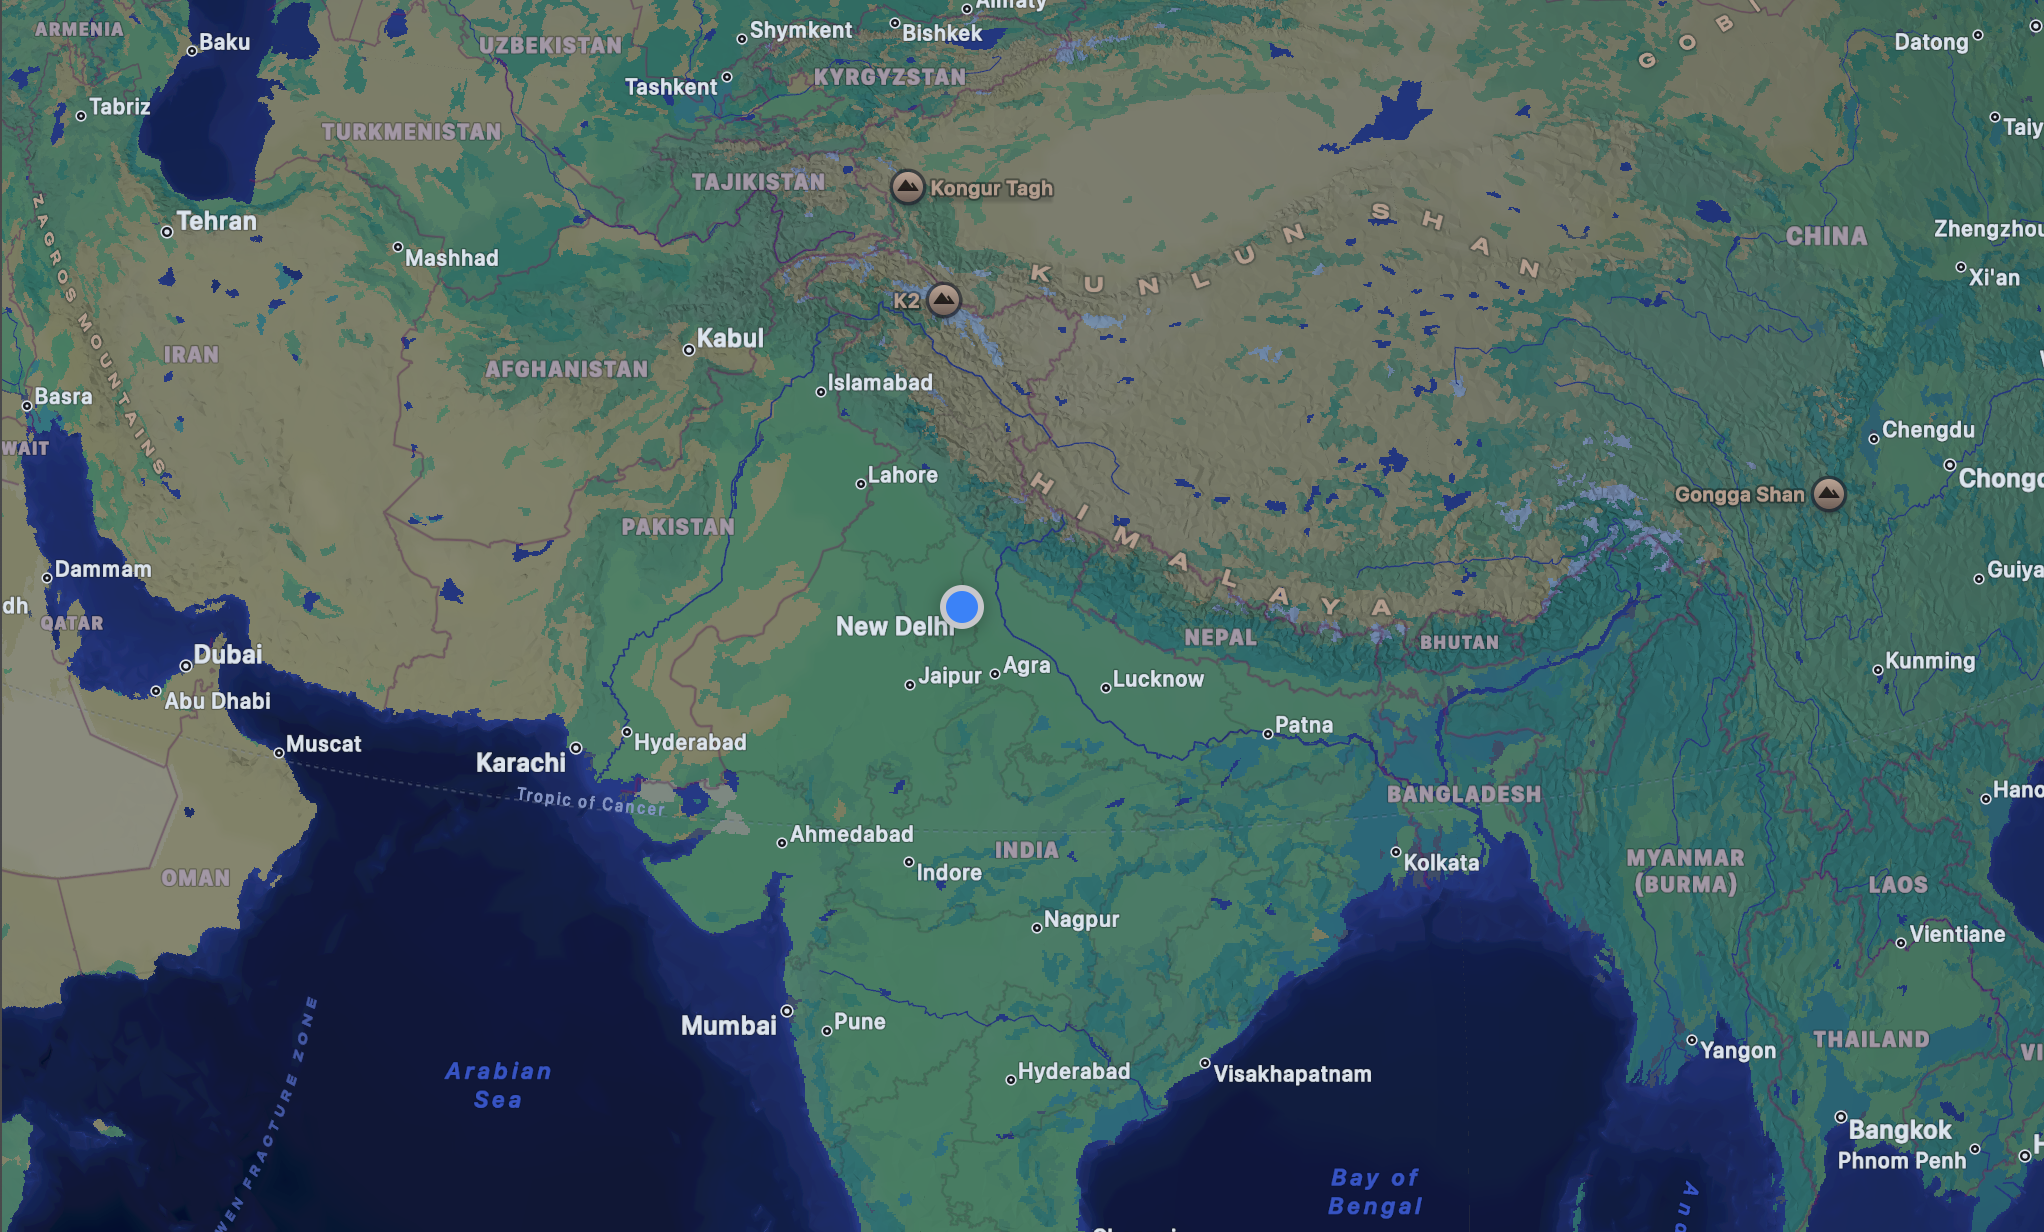
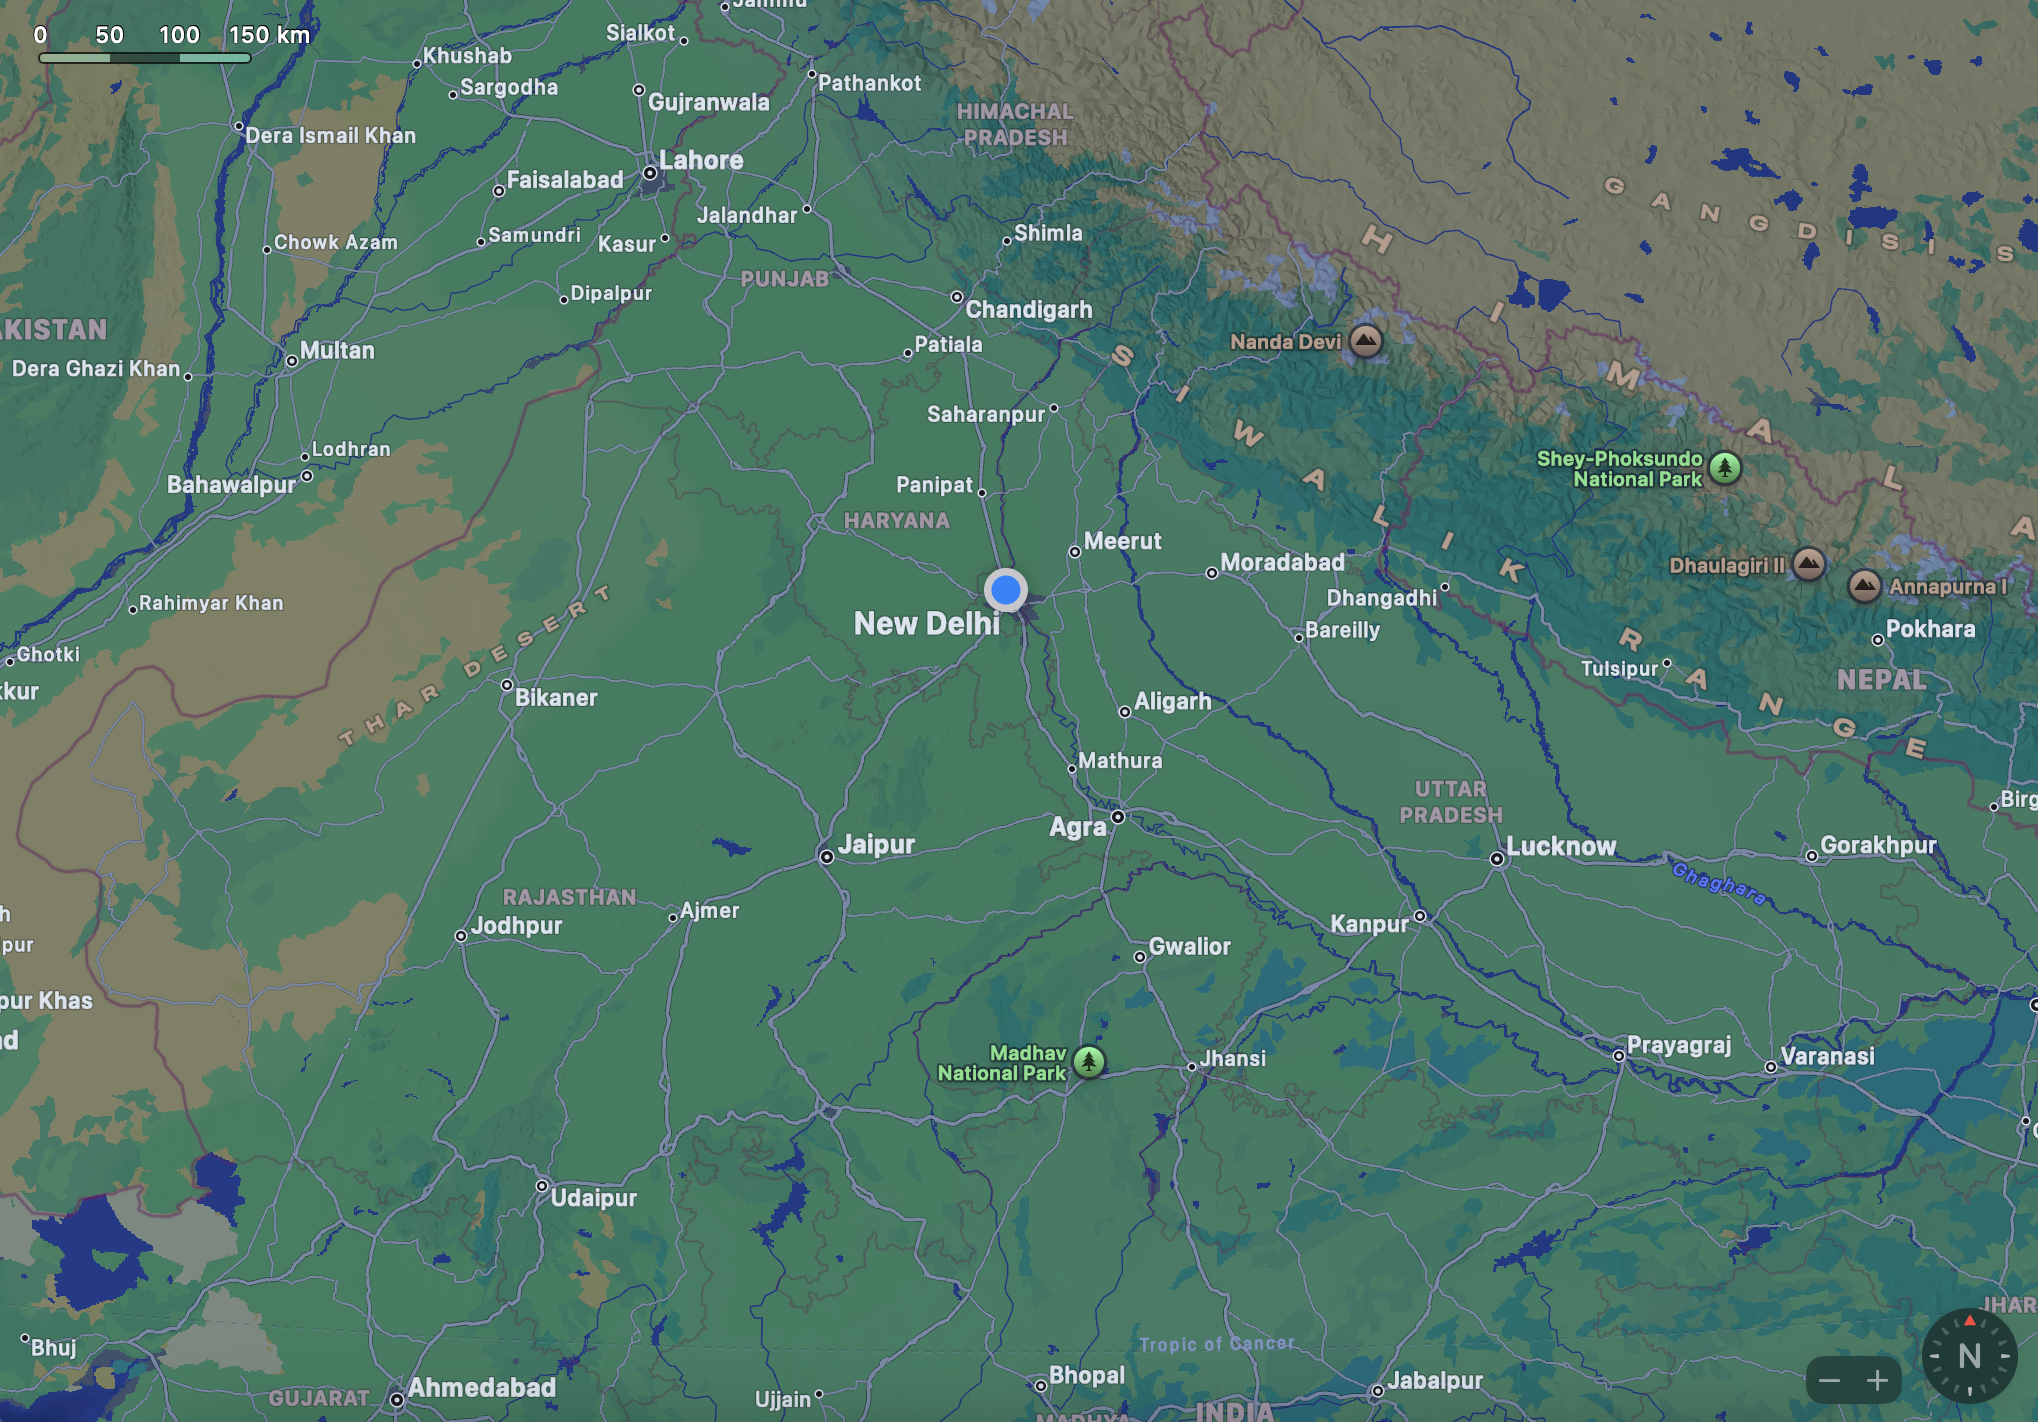
added a new map

diff --git a/src/sections/About.tsx b/src/sections/About.tsx
@@ -167,7 +167,7 @@ export const AboutSection = () => {
               <Image
                 src={mapImage}
                 alt="map"
-                className="h-full w-full object-cover sm:object-fill object-left-top"
+                className="h-full w-full object-cover object-left-top"
               />
               <div className="absolute top-1/2 left-1/2 -translate-x-1/2 -translate-y-1/2 size-20 rounded-full after:content-[''] after:absolute after:inset-0 after:outline after:outline-2 after:-outline-offset-2 after:rounded-full after:outline-gray-950/30">
                 <div className="absolute inset-0 rounded-full bg-gradient-to-r from-emerald-300 to-sky-400 -z-20 animate-ping [animation-duration:2s]"></div>
